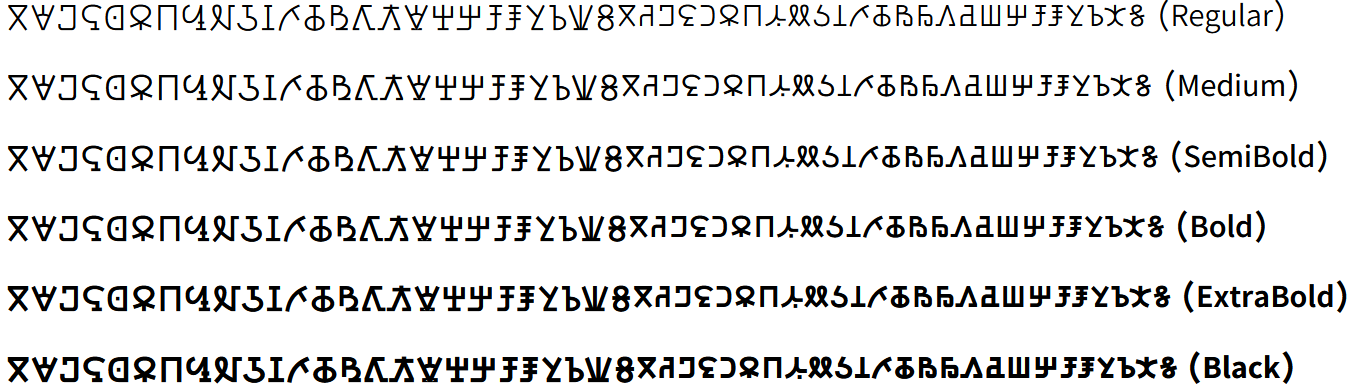
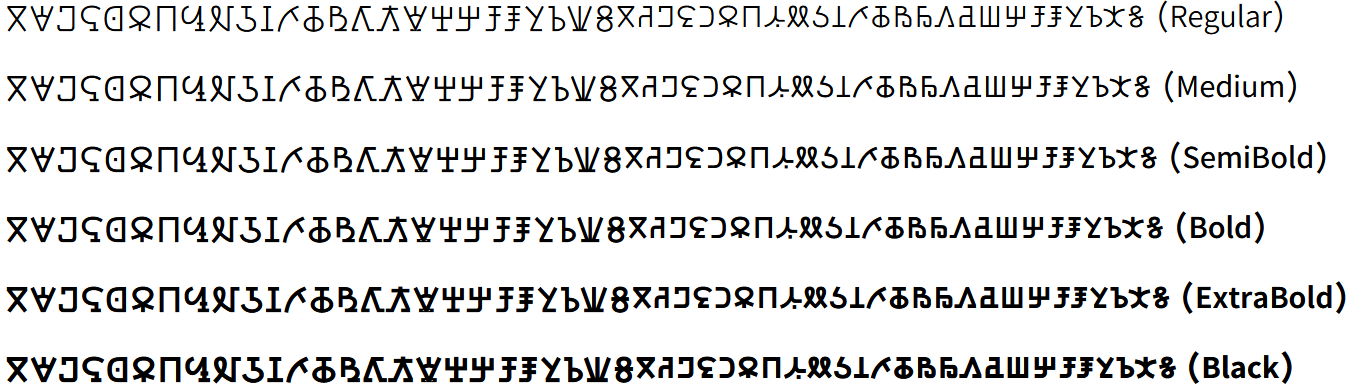
Remove nonmarkingreturn. Fix Gna-beria in black.

diff --git a/tests-local/Kedebideri-SampleWeight.html b/tests-local/Kedebideri-SampleWeight.html
@@ -1,0 +1,54 @@
+<html>
+<!--
+Kedebideri-webfont-example.html
+This file is part of Kedebideri font family (https://software.sil.org/kedebideri).
+Copyright (c) 2007-2025, SIL Global (https://www.sil.org/),
+with Reserved Font Names "Kedebideri" and "SIL".
+
+Latin glyph design Copyright (c) 2010-2024 Adobe (https://www.adobe.com/),
+with Reserved Font Name "Source" (Latin glyphs).
+
+This Font Software is licensed under the SIL Open Font License, Version 1.1. You should have received a copy
+of the license along with this Font Software. If this is not the case, go to
+(https://openfontlicense.org/) for all the details including a FAQ.
+-->
+<head>
+	<link rel="stylesheet" href="Kedebideri-webfont-example.css" type="text/css">
+      <meta http-equiv="Content-Type" content="text/html; charset=utf-8"/>
+      <title>Using Kedebideri webfont</title>
+</head>
+
+<body>
+<div style="font-size: 150%;">
+	
+<h1>Using Kedebideri webfont</h1>
+
+<h2>Sample weights (taken from &#x201c;La vendeuse de lait&#x201d;)</h2>
+
+<p class="Reg">𖺩𖻑𖺼𖺻𖻓 𖻇𖻂, 𖺼𖺻𖻀𖻑 𖻊𖻁 <span class="Med">𖺼𖺻𖻌𖻐𖺻 𖻇𖻂 𖻀𖺾𖻇𖻂</span> / <span class="SB">𖻁𖻂𖻌𖻂 𖻇𖻆 𖻇𖻂 𖻇𖺻𖻀𖻂́</span>𖻌𖻑 𖻄𖺾𖻓 𖻄𖺾𖻓-𖻀𖻂𖻇𖻂́. 𖺡𖺾𖻌 𖻄𖺾𖻐𖻐𖻂𖺾́, 𖻊𖻁 𖻄𖻂𖻀𖻊 𖻇𖺻𖻌𖺾𖻇𖻂́.
+
+𖺶 𖺼𖺾𖻌 𖻀𖺻𖻌𖺽𖻂 𖻌𖻑 𖻄𖺾𖻎𖻂𖻌𖻂𖻀𖻂́, 𖺼𖺾𖻌 𖻐𖻊𖺽𖻑 𖻄𖻂𖻀𖻊 𖻄𖺾𖻌𖻂 𖻑𖻓𖺻𖻌𖻂́, “𖺠𖻓 𖻑 𖻀𖺾𖻇𖻂 𖻌𖻑 𖻃𖻑𖻀𖺾̀, 𖻊𖻁 𖺾𖻀𖻂 𖻇𖺻𖻀𖻂𖻇, 𖻄𖻊𖺽𖻂𖻂 𖻇𖺻𖻀𖺾̀ 𖻄𖺾𖺽𖺾𖻀𖻂̀.”
+
+𖺶 𖻄𖻊𖺽𖻂𖻂 𖺼𖻂𖻓𖺾 𖻌𖻑 𖻄𖺾𖺽𖺾-𖻀𖻂𖻇, 𖻀𖻑𖻇𖻑 𖺼𖺾𖻌𖻂́, “𖺶 𖻀𖻑𖻇𖻑 𖻄𖺾𖺼𖺾𖻇, 𖻄𖺻𖻅𖻇𖻂̀.”
+
+𖺶 𖻄𖺻𖻅-𖻀𖻂𖻇𖻂́, 𖺼𖻑𖻌 𖻑𖻀𖻑𖻌𖺾𖻇𖻂́. 𖺶 𖻑𖻀𖻑𖻌𖺾-𖻀𖻂𖻇𖻂𖻈, 𖻐𖺾𖻀𖺾 𖻇𖺻𖻀𖻂́.
+
+𖺶 𖻐𖺾𖻀𖺾 𖻇𖺻𖻀𖻂́, 𖻀𖻂𖻌𖻂𖻎 𖻐𖻊 <span class="Bld">𖻁𖻂𖻌𖻂 𖻇𖻆 𖻇𖻂 𖻇𖺻𖻀𖻂́</span>. 𖺶 𖻁𖻂𖻌𖻂 𖻄𖻂 𖻇𖺻𖻀𖺾́, 𖺼𖻂𖻓𖺾 𖻌𖻑 𖻄𖻊𖻌𖻀𖻂𖻇 𖻆𖻂 𖻁𖻂𖻌𖻂.
+
+𖺩𖻁𖺻𖻅𖺻𖻎, 𖻑 𖻆𖻂 𖻄𖻂 𖻆𖻂𖻇𖺻 𖻐𖺾𖻓𖻇𖻂́, 𖺼𖺾𖻌 𖻄𖻂𖻌𖺻𖻀𖻂 𖻌𖻑 𖺼𖻂𖻓𖺾 𖻐𖻊𖻒𖻌𖻂́.
+
+𖺢 𖺾𖻀𖺾𖻌𖺾́, 𖺽𖺾𖻀𖺾𖻌𖺾́, <span class="ExBd">𖺽𖺾𖻀𖺾𖻌𖺾́ 𖻐𖻊𖻒𖻌𖻂́</span> / <span class="Blk">𖻀𖺾𖻇𖻂 𖻄𖻂𖻀𖻊 𖻑𖻌𖻑-𖻀𖻂𖻇𖻂́</span>. 𖺩𖻁𖺻𖻅𖺻𖻎 𖺼𖺾𖻌 𖻀𖺻 𖻆𖻂𖻓𖺾𖻌𖺾́, 𖻐𖻊𖻒𖻌𖻂́.
+
+𖺢𖺾𖻀𖻌𖺾́ 𖻐𖻊𖻒𖻌𖻂́, 𖻐𖻊𖻒𖻌𖻂́, 𖻐𖻊𖻒𖻌𖻂́, 𖻅𖺻𖻁𖺻𖺽𖻂 𖻎𖺾𖻀𖺾𖻌𖻂́ 𖻊𖻁 𖻄𖻂𖻀𖻊 𖻄𖻂 𖻂𖻌𖻂 𖻄𖺾𖺽𖺾𖻓𖺾́, 𖻐𖺻𖻓𖻇𖻂́.
+
+𖺩𖻁𖺻𖻅𖺻𖻎, 𖻀𖺾𖻇𖻂 𖻄𖻂𖻀𖻊 𖻑𖻌𖻑-𖻀𖻂𖻇𖻂́, 𖺼𖻂𖻓𖺾 𖻌𖻑 𖻐𖻂𖺾 𖺾𖻇𖻇𖺾 𖻐𖺻 𖺼𖺻𖻌 𖻄𖺾𖻓𖻌𖻂́. 𖺡𖺾𖻌 𖺼𖺻𖻌𖻂 𖻄𖻂𖻀𖻊 𖻄𖺾𖻀𖺾𖻎𖺾𖻂́, 𖻐𖻊 𖻎𖻊𖻄𖻊 𖺾𖺼𖻂 𖻀𖻑 𖻄𖺾𖻎𖻐𖻂́, 𖻊𖻁 𖻄𖻂𖻀𖻊 𖻀𖻂𖻌𖺻 𖻄𖺻𖻇𖺻 𖺻𖻄𖻄𖻂𖺾́, 𖻄𖻂𖻇𖺻𖻓𖻊 𖻀𖺻𖻌𖺽𖻂 𖻌𖻑  𖻐𖺻𖻒𖺻𖻌𖻂́.
+</p>
+<p class=Reg>𖺩𖻑𖺼𖺻𖻓 𖻇𖻂, 𖺼𖺻𖻀𖻑 𖻊𖻁 𖺼𖺻𖻌𖻐𖺻 𖻇𖻂 𖻀𖺾𖻇𖻂 𖻌𖻑 𖻄𖺾𖻓 𖻄𖺾𖻓-𖻀𖻂𖻇𖻂́. 𖺡𖺾𖻌 𖻄𖺾𖻐𖻐𖻂𖺾́, 𖻊𖻁 𖻄𖻂𖻀𖻊 𖻇𖺻𖻌𖺾𖻇𖻂́. Victor jagt zwölf Boxkämpfer quer über den großen Sylter Deich (Regular)</p>
+<p class=Med>𖺩𖻑𖺼𖺻𖻓 𖻇𖻂, 𖺼𖺻𖻀𖻑 𖻊𖻁 𖺼𖺻𖻌𖻐𖺻 𖻇𖻂 𖻀𖺾𖻇𖻂 𖻌𖻑 𖻄𖺾𖻓 𖻄𖺾𖻓-𖻀𖻂𖻇𖻂́. 𖺡𖺾𖻌 𖻄𖺾𖻐𖻐𖻂𖺾́, 𖻊𖻁 𖻄𖻂𖻀𖻊 𖻇𖺻𖻌𖺾𖻇𖻂́. Victor jagt zwölf Boxkämpfer quer über den großen Sylter Deich(Medium)</p>
+<p class=SB>𖺩𖻑𖺼𖺻𖻓 𖻇𖻂, 𖺼𖺻𖻀𖻑 𖻊𖻁 𖺼𖺻𖻌𖻐𖺻 𖻇𖻂 𖻀𖺾𖻇𖻂 𖻌𖻑 𖻄𖺾𖻓 𖻄𖺾𖻓-𖻀𖻂𖻇𖻂́. 𖺡𖺾𖻌 𖻄𖺾𖻐𖻐𖻂𖺾́, 𖻊𖻁 𖻄𖻂𖻀𖻊 𖻇𖺻𖻌𖺾𖻇𖻂́. Victor jagt zwölf Boxkämpfer quer über den großen Sylter Deich(SemiBold)</p>
+<p class=Bld>𖺩𖻑𖺼𖺻𖻓 𖻇𖻂, 𖺼𖺻𖻀𖻑 𖻊𖻁 𖺼𖺻𖻌𖻐𖺻 𖻇𖻂 𖻀𖺾𖻇𖻂 𖻌𖻑 𖻄𖺾𖻓 𖻄𖺾𖻓-𖻀𖻂𖻇𖻂́. 𖺡𖺾𖻌 𖻄𖺾𖻐𖻐𖻂𖺾́, 𖻊𖻁 𖻄𖻂𖻀𖻊 𖻇𖺻𖻌𖺾𖻇𖻂́. Victor jagt zwölf Boxkämpfer quer über den großen Sylter Deich(Bold)</p>
+<p class=ExBd>𖺩𖻑𖺼𖺻𖻓 𖻇𖻂, 𖺼𖺻𖻀𖻑 𖻊𖻁 𖺼𖺻𖻌𖻐𖺻 𖻇𖻂 𖻀𖺾𖻇𖻂 𖻌𖻑 𖻄𖺾𖻓 𖻄𖺾𖻓-𖻀𖻂𖻇𖻂́. 𖺡𖺾𖻌 𖻄𖺾𖻐𖻐𖻂𖺾́, 𖻊𖻁 𖻄𖻂𖻀𖻊 𖻇𖺻𖻌𖺾𖻇𖻂́. Victor jagt zwölf Boxkämpfer quer über den großen Sylter Deich(ExtraBold)</p>
+<p class=Blk>𖺩𖻑𖺼𖺻𖻓 𖻇𖻂, 𖺼𖺻𖻀𖻑 𖻊𖻁 𖺼𖺻𖻌𖻐𖺻 𖻇𖻂 𖻀𖺾𖻇𖻂 𖻌𖻑 𖻄𖺾𖻓 𖻄𖺾𖻓-𖻀𖻂𖻇𖻂́. 𖺡𖺾𖻌 𖻄𖺾𖻐𖻐𖻂𖺾́, 𖻊𖻁 𖻄𖻂𖻀𖻊 𖻇𖺻𖻌𖺾𖻇𖻂́. Victor jagt zwölf Boxkämpfer quer über den großen Sylter Deich(Black)</p>
+
+</body>
+</html>

diff --git a/documentation/source/design.md b/documentation/source/design.md
@@ -7,16 +7,16 @@ The Kedebideri font supports the Beria Erfe script which is used for the Zaghawa
 
 This font was initially designed by a volunteer who chooses to remain anonymous, in cooperation with SIL Global and the Mission Protestante Franco-Suisse au Tchad.
 
-The Latin glyphs were imported from Source Sans Pro at 103% and a weight of CSS 360 (for Regular).
+The Latin glyphs were imported from Source Sans Pro at 103% and a weight of CSS 360 for Regular and CSS 670 for Black.
 
 Six weights for this typeface family are included:
 
-     * Kedebideri Regular
-     * Kedebideri Medium
-     * Kedebideri SemiBold
-     * Kedebideri Bold
-     * Kedebideri ExtraBold
-     * Kedebideri Black
+* Kedebideri Regular
+* Kedebideri Medium
+* Kedebideri SemiBold
+* Kedebideri Bold
+* Kedebideri ExtraBold
+* Kedebideri Black
 
 ## Type Samples
 
@@ -26,5 +26,5 @@ Type samples showing some of the inventory of glyphs can be found here:
 One example of some text is shown below. 
 
 ![Kedebideri Sample - Six weights](../assets/images/six-weights.png){.fullsize}
-<!-- PRODUCT SITE IMAGE SRC https://software.sil.org/kedebideri/wp-content/uploads/sites/30/2022/06/six-weights.png -->
+<!-- PRODUCT SITE IMAGE SRC https://software.sil.org/kedebideri/wp-content/uploads/sites/73/2025/09/six-weights.png -->
 <figcaption>Kedebideri Sample - Six weights</figcaption>

diff --git a/documentation/source/announcement.md b/documentation/source/announcement.md
@@ -9,12 +9,12 @@ The font package is available for download from the [Download page](https://soft
 
 Six weights for this typeface family are now included:
 
-     * Kedebideri Regular
-     * Kedebideri Medium
-     * Kedebideri SemiBold
-     * Kedebideri Bold
-     * Kedebideri ExtraBold
-     * Kedebideri Black
+* Kedebideri Regular
+* Kedebideri Medium
+* Kedebideri SemiBold
+* Kedebideri Bold
+* Kedebideri ExtraBold
+* Kedebideri Black
 
 Both desktop and web fonts are provided in a single, all-platforms package on the [Download Page](https://software.sil.org/kedebideri/download).
 
